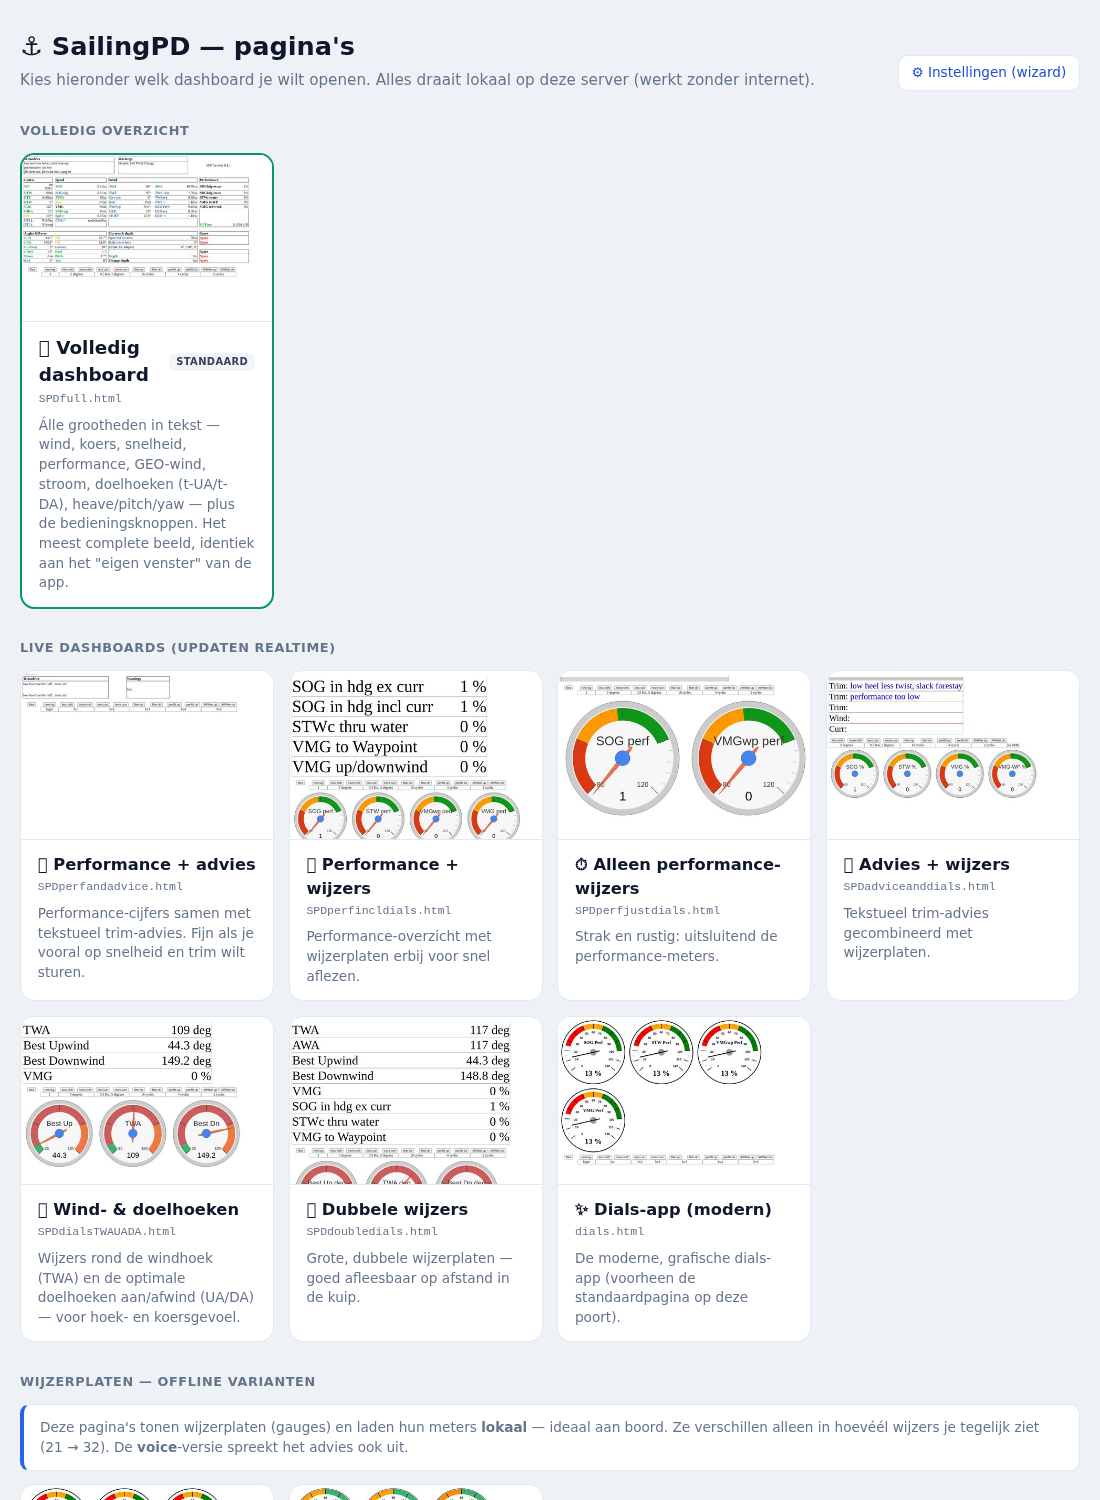
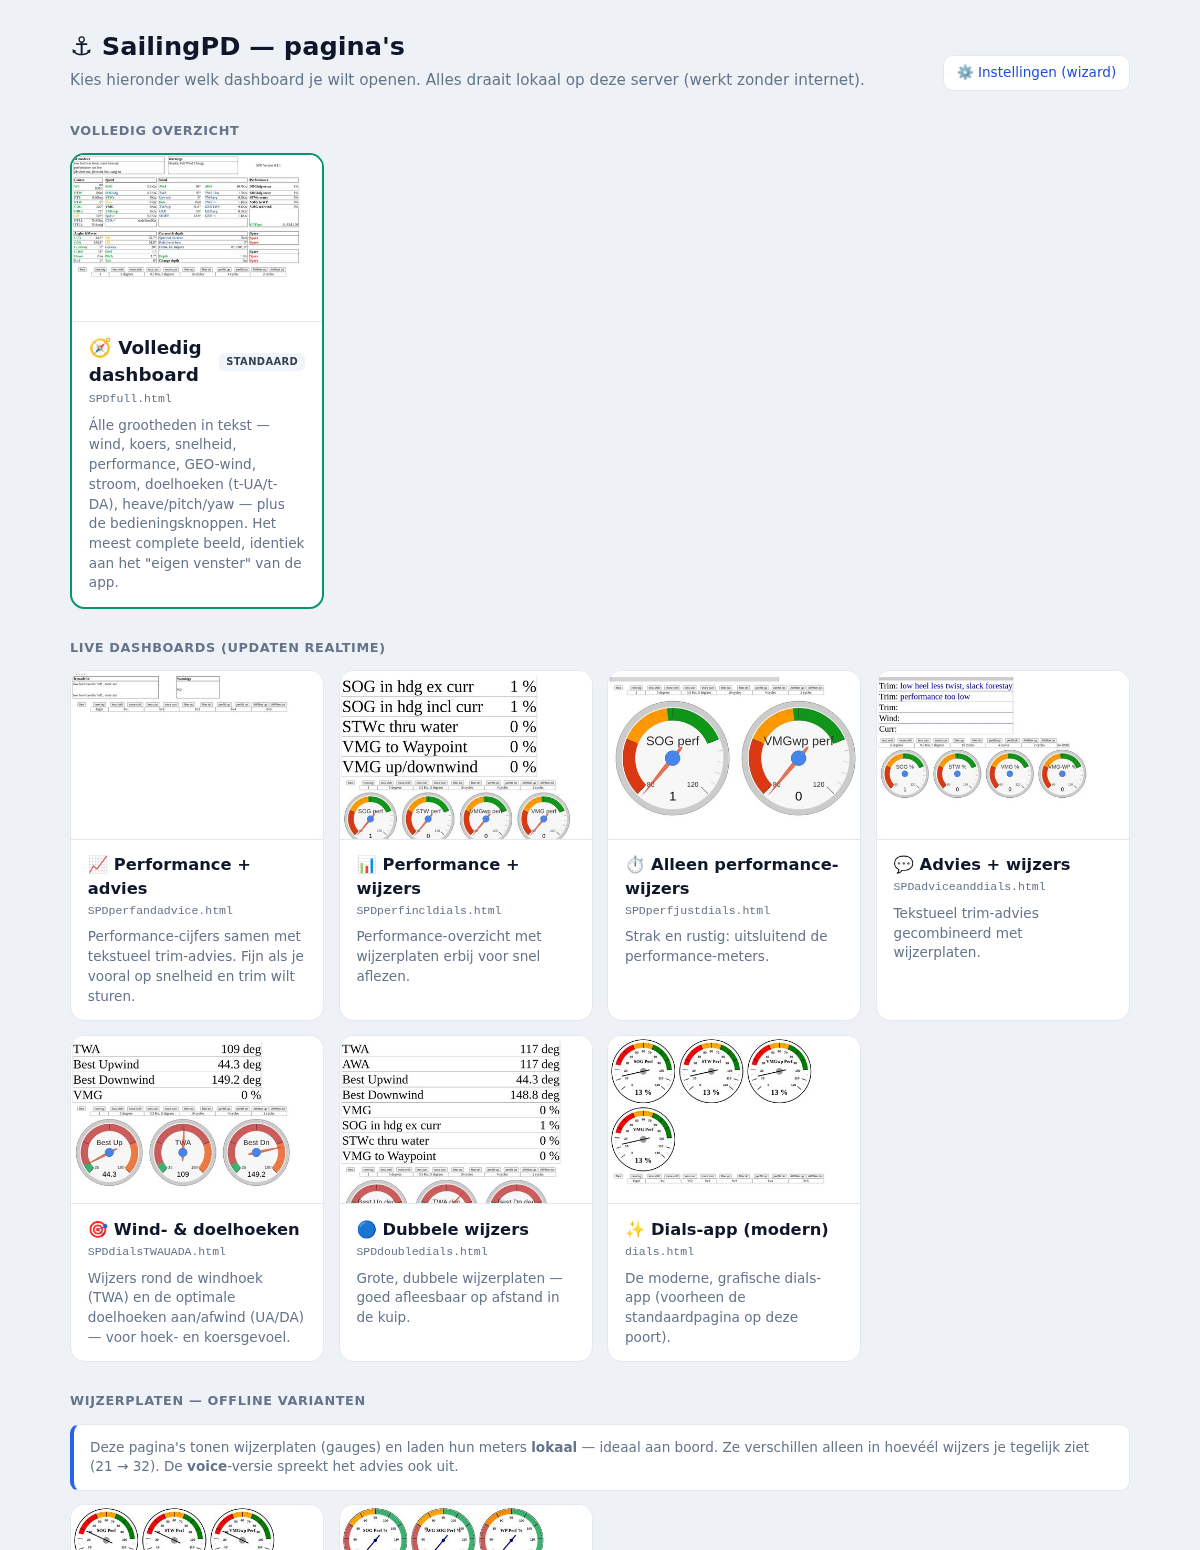
docs: verse screenshots (emoji-render) van menu + wizard-basismodus

Changed region(s): [[0.0, 0.0, 0.8964, 1.0], [0.4945, 0.4293, 0.9582, 0.8893], [0.8036, 0.0307, 0.9582, 0.0613]]

diff --git a/README.md b/README.md
@@ -9,6 +9,8 @@ Deze starter kit bundelt twee dingen die het opstarten met SailingPD een stuk ee
 
 ![Web-menu](docs/menu-screenshot.png)
 
+![De config-wizard in de eenvoudige (basis)modus](docs/wizard-screenshot.png)
+
 > Onafhankelijke add-on. SailingPD zelf is gemaakt door Thomas ten Kortenaar (capolavoro.nl); deze kit is daar geen officieel onderdeel van maar werkt er bovenop.
 
 ---
